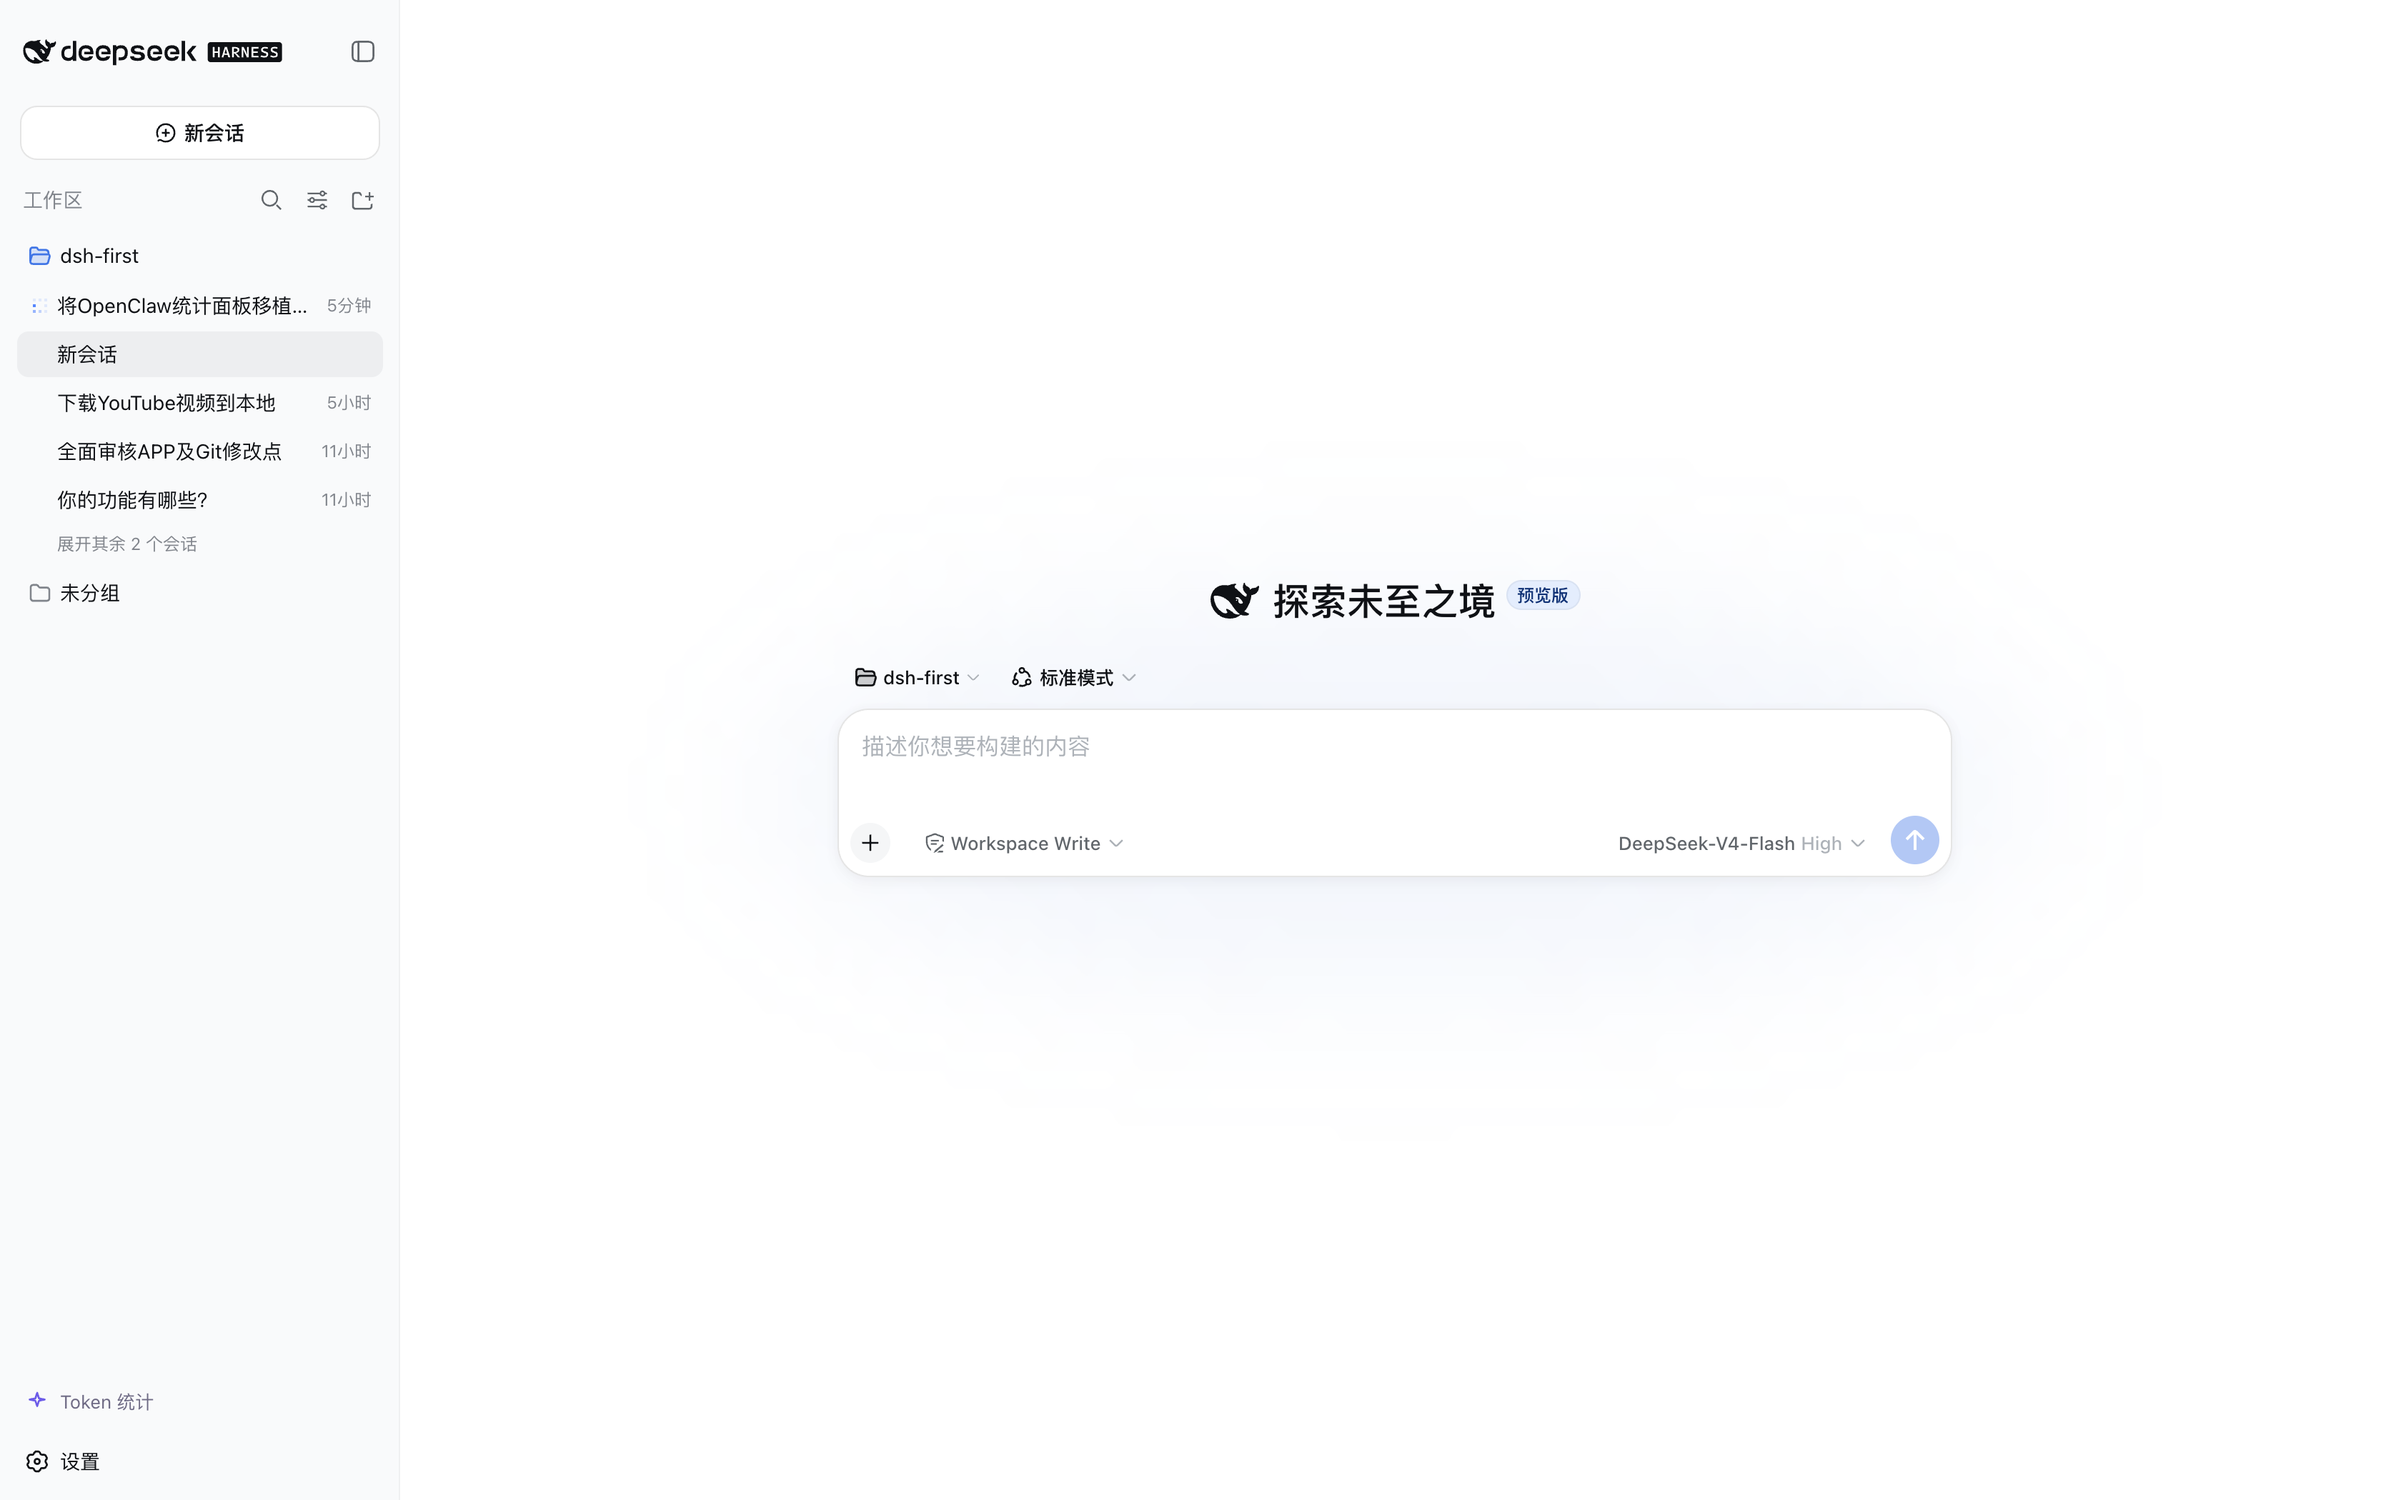
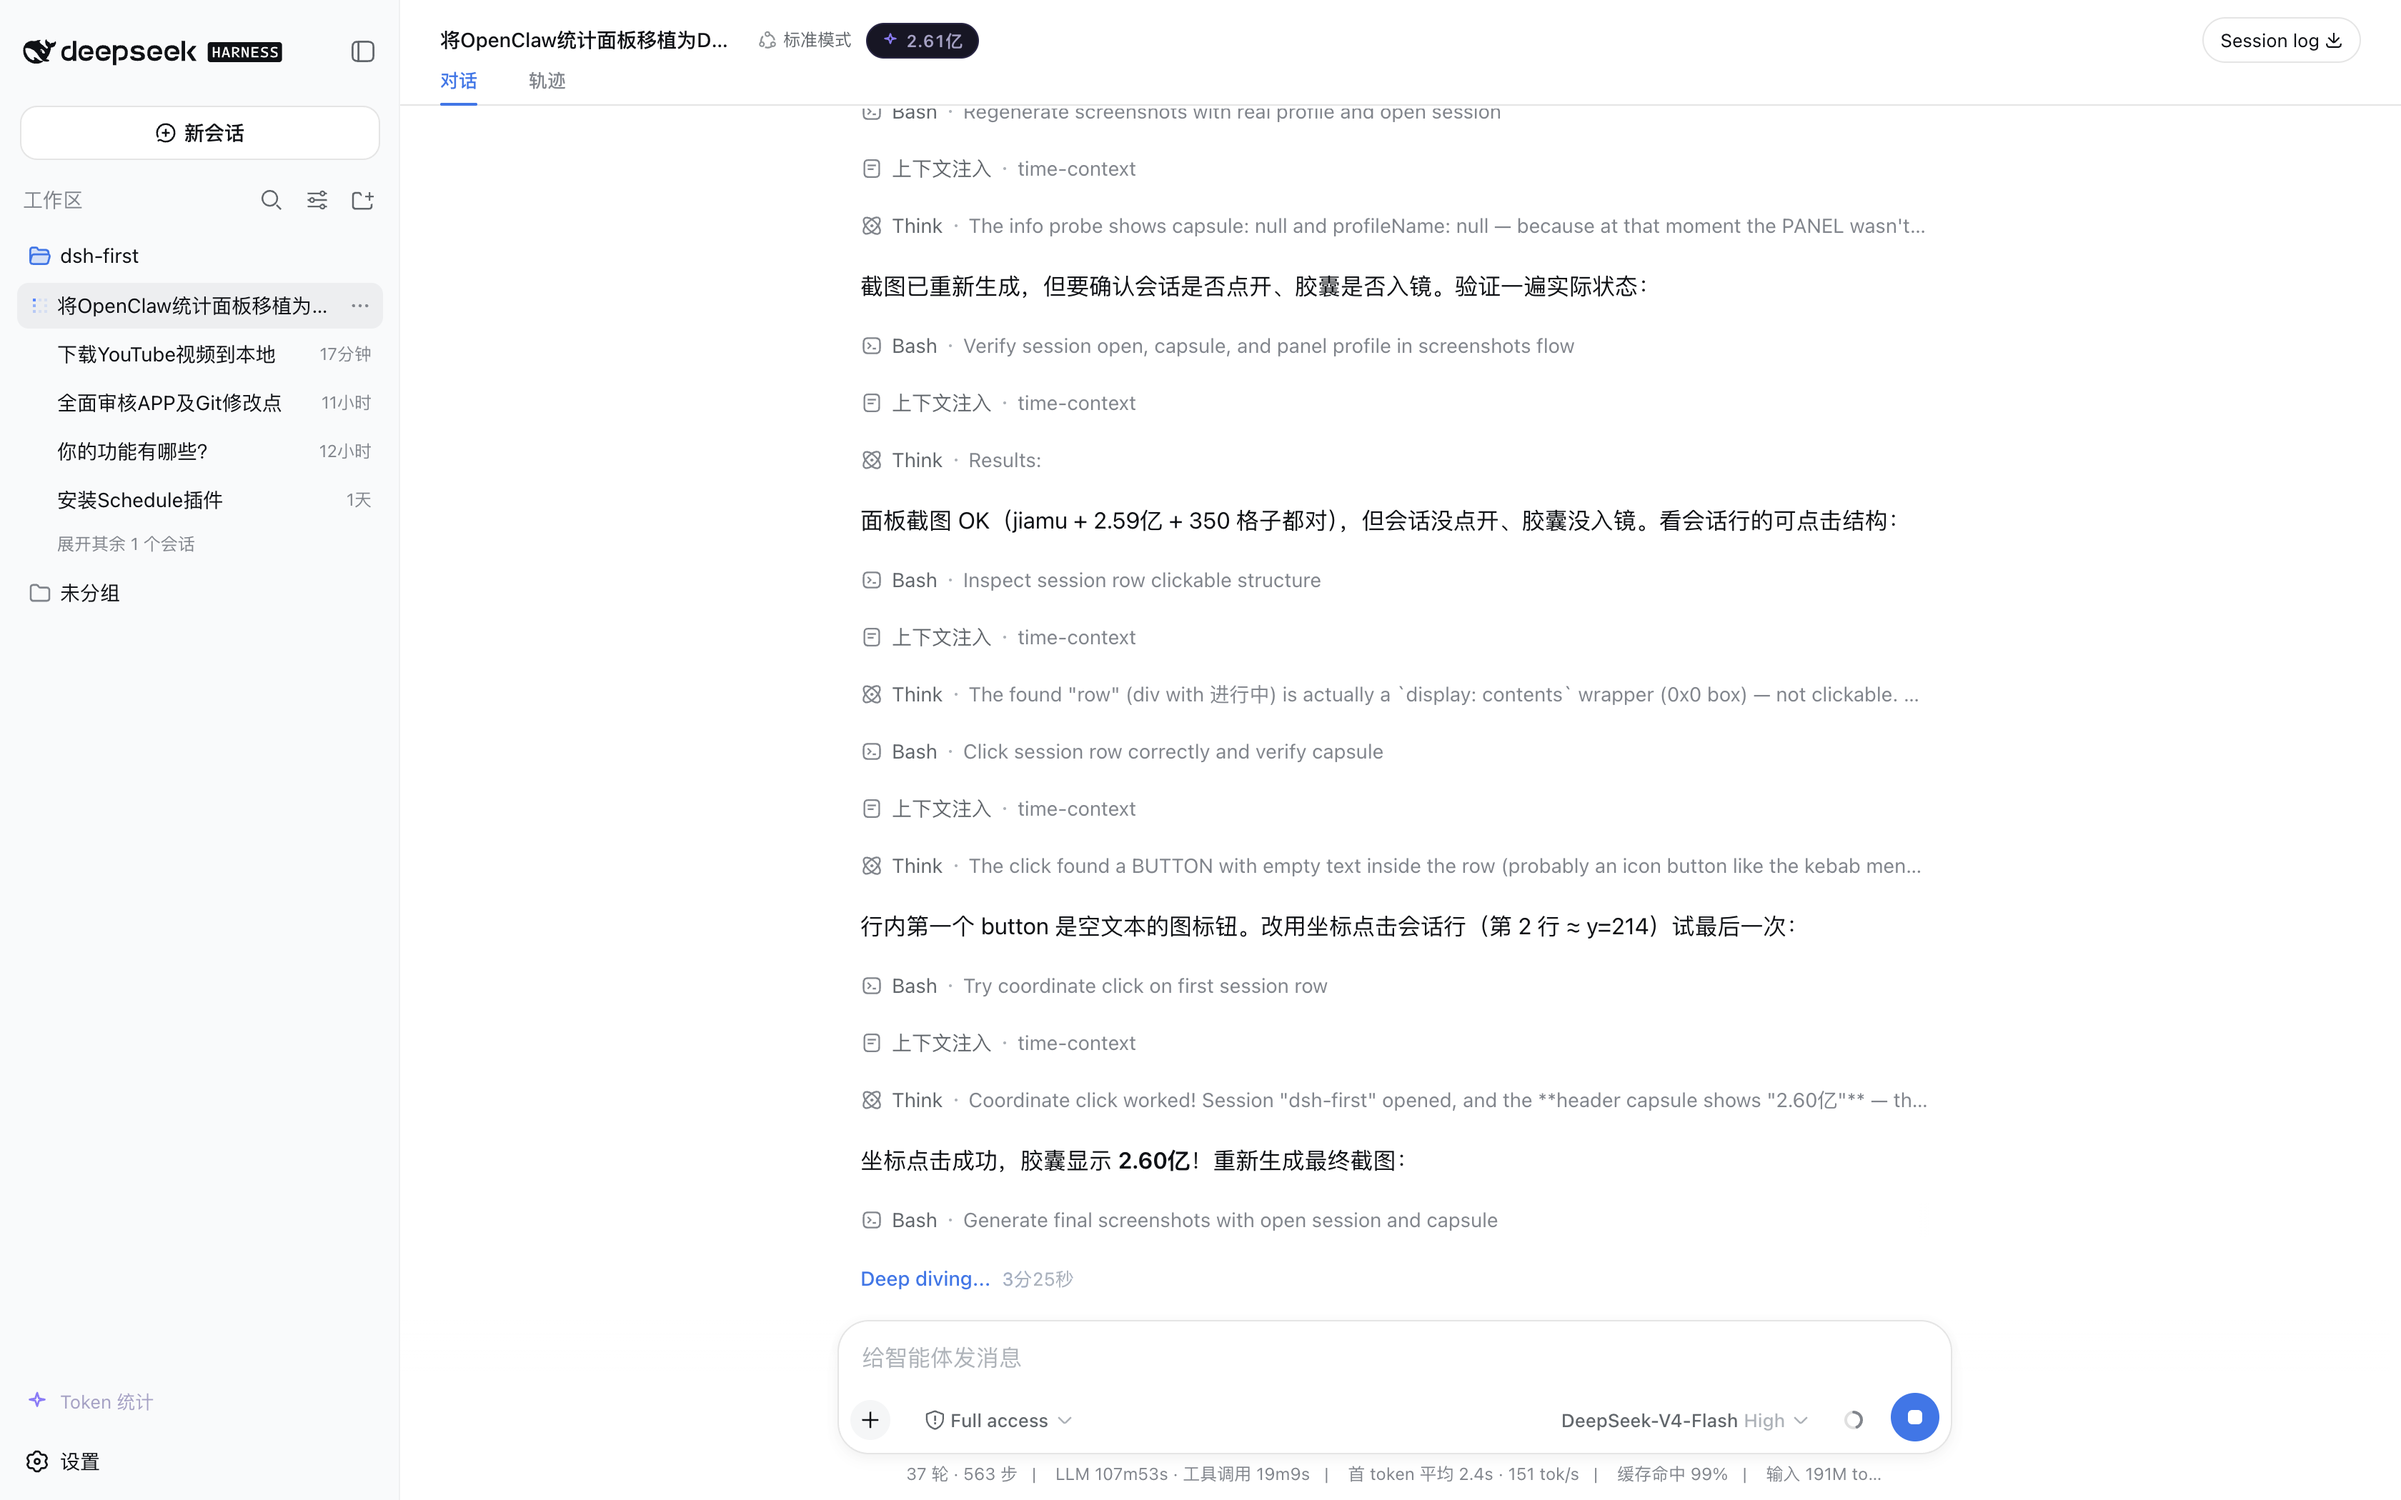
docs: 全面审核修复过时内容 + 真实截图
- README：移除早期 FAB 时代的右下角弹出表述 → 居中面板 + 侧栏/胶囊入口
- README：安装章节简化，去掉 npm 讨论，新增「一句话安装（Agent）」方式
- 截图：带真实资料（头像/昵称）+ 深空紫主题 + 打开会话（头部胶囊入镜）重新生成
- 根因：README 未对当前代码审核 + 截图用无痕浏览器（localStorage 为空导致默认资料）

diff --git a/README.md b/README.md
@@ -13,7 +13,7 @@
 
 DSH 刚发布，大家最关心的是：**我的 Token 到底烧哪去了？**
 
-这个插件在 DSH Web 界面里加一个**Token 用量统计面板**（右下角弹出），把当前运行实例**全部会话**的 token 消耗汇总成 Codex 个人用量页那种一目了然的样子：
+这个插件在 DSH Web 界面里加一个**Token 用量统计面板**，把当前运行实例**全部会话**的 token 消耗汇总成 Codex 个人用量页那种一目了然的样子，点击入口即弹出居中面板：
 
 ![面板（每日视图）](./docs/screenshot-panel.png)
 ![面板（累计视图）](./docs/screenshot-panel-cumulative.png)
@@ -25,8 +25,8 @@ DSH 刚发布，大家最关心的是：**我的 Token 到底烧哪去了？**
 - **活动洞察**：推理强度分布、Skill 使用、消息/工具统计
 - **插件 / Skill Top5**：谁在消耗最多，一目了然
 - **两个原生入口**（与 DSH UI 融为一体）：
-  - 侧边栏底部「Token 统计」按钮
-  - 会话头部实时用量胶囊：`⚡ 2.15亿`（每 5 秒刷新，随时盯着数字跳）
+  - 侧边栏底部「Token 统计」按钮（与设置对齐，应用级常驻）
+  - 会话头部实时用量胶囊：`⚡ 2.15亿`（每 5 秒自动刷新数字）
 - **深空紫双主题**：跟随系统 / 手动切换；浅色深色都好看
 - **零 DSH 源码改动**：浏览器半边走通用 RPC 通道，安装即用
 
@@ -40,49 +40,41 @@ DSH 刚发布，大家最关心的是：**我的 Token 到底烧哪去了？**
 
 ## 安装
 
-> ⚠ **现状说明**：DSH 刚发布（第 3 天），其运行时包（`@deepseek-ai/*`）尚未发布到 npm，因此本插件的依赖由 DSH 安装提供（peerDependencies）。以下是当前可用的安装方式；等 DSH 官方包上 npm 后可直接 `npm i dsh-token-usage`。
+装完记得重启 `dsh web` 并刷新页面。
 
-### 方式 A：放进 DSH 仓库工作区（推荐，开发/尝鲜最顺）
+### 一句话安装（推荐）：让 Agent 自己装
 
-```sh
-# 1. 克隆 DSH 仓库并安装依赖（如果还没做）
-git clone https://github.com/deepseek-ai/deepseek-harness
-cd deepseek-harness && pnpm install
+把下面这句话发给你的 DSH Agent（替换 `<仓库路径>` 为克隆下来的路径）：
 
-# 2. 把本仓库拷进 packages/extensions/ 并构建
-git clone https://github.com/<you>/dsh-token-usage
-cp -R dsh-token-usage packages/extensions/
-pnpm install          # 链接新 workspace 包
-pnpm run build:lib    # 构建全部（含本插件）
+> 把 dsh-token-usage 插件（源码在 `<仓库路径>`）安装为 DSH 正式插件：构建 lib、把包挂进 web profile 的 dsh.profile.bundles、重启 dsh web，然后验证面板出现。
 
-# 3. 在 web profile 挂上 bundle
-#    ~/.dsh/profiles/web/package.json:
-#      "dependencies": { "dsh-token-usage": "workspace:^" }
-#      "dsh": { "profile": { "bundles": [..., "dsh-token-usage"] } }
+Agent 会读取本 README 完成构建、挂载与重启。
 
-# 4. 重启 dsh web，刷新页面
-```
-
-### 方式 B：独立目录 + profile 链接（不动 DSH 源码）
+### 手动方式 A：放进 DSH 仓库（最顺）
 
 ```sh
-# 克隆到任意位置
-git clone https://github.com/<you>/dsh-token-usage
-
-# 挂进 web profile 的依赖并安装
-cd ~/.dsh/profiles/web
-pnpm add file:/path/to/dsh-token-usage
-# 并把 "dsh-token-usage" 追加进 dsh.profile.bundles
-# 重启 dsh web
+git clone https://github.com/deepseek-ai/deepseek-harness && cd deepseek-harness && pnpm install
+git clone <本仓库地址> && cp -R dsh-token-usage packages/extensions/
+pnpm install && pnpm run build:lib
+# ~/.dsh/profiles/web/package.json: dependencies 加 "dsh-token-usage": "workspace:^"
+#                              dsh.profile.bundles 加 "dsh-token-usage"
 ```
 
-> `@deepseek-ai/*` peer 依赖会从 DSH 安装的 node_modules 解析；若你的 DSH 以源码方式运行（推荐），workspace 链接自动满足。
+### 手动方式 B：独立目录 + profile 链接（不动 DSH 源码）
+
+```sh
+git clone <本仓库地址>
+cd ~/.dsh/profiles/web && pnpm add file:<克隆路径>
+# dsh.profile.bundles 加 "dsh-token-usage"
+```
+
+> 插件运行所需的 `@deepseek-ai/*` 依赖由 DSH 安装提供（peerDependencies），无需单独安装。
 
 ## 使用
 
 1. 重启 `dsh web` 后，**左侧栏底部**出现「Token 统计」入口
 2. 打开任意会话，**标题旁**出现实时用量胶囊 `⚡ 2.15亿`
-3. 点击任一入口打开面板；右上角可切主题、关闭
+3. 点击任一入口打开居中面板；右上角可切主题、关闭
 4. 面板内热力图支持三视图切换 + 悬浮看单日/单周/累计数值
 
 数据每 5 秒刷新；历史会话在插件加载时自动回填，重启不丢。
@@ -130,16 +122,14 @@ pnpm add file:/path/to/dsh-token-usage
 构建链路依赖 DSH 仓库的编译工具（tsc 项目引用 + tsdown + Typert 生成器），因此开发需在 DSH checkout 内进行（方式 A 的目录结构）：
 
 ```sh
-# 改动 src/ 后
+# 浏览器半边改动后（注意：必须先 tsc 再 tsdown）
 pnpm exec tsc -b packages/extensions/dsh-token-stats/tsconfig.client.json
-pnpm exec tsdown --env.DSH_BUILD_FACE client    # 重建浏览器 bundle
-# host 半边改动：
+pnpm exec tsdown --env.DSH_BUILD_FACE client
+# host 半边改动后
 pnpm exec tsc -b packages/extensions/dsh-token-stats/tsconfig.host.json
-pnpm run build:lib:host                          # 重建 host + Typert 产物
+pnpm run build:lib:host
 # 然后重启 dsh web
 ```
-
-> 注意：client 半边必须**先 tsc 再 tsdown**（tsdown 读的是 tsc 产物）。
 
 提交前记得 `pnpm run build:lib` 并提交 `lib/`，让使用者免构建。
 
